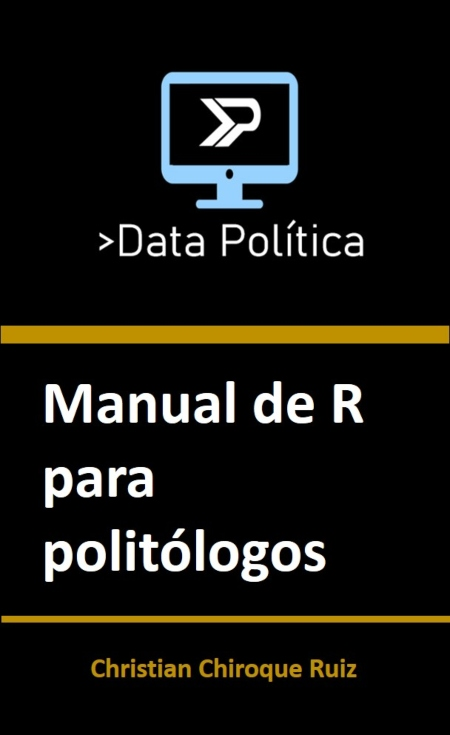
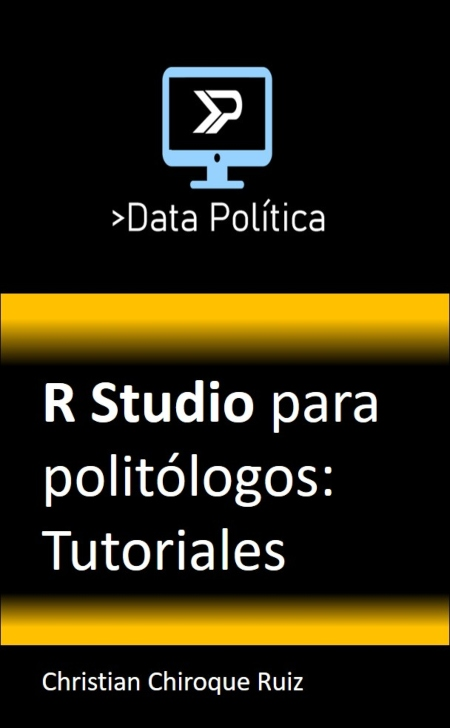
actualización

Changed region(s): [[0.0, 0.3929, 1.0, 0.967], [0.2178, 0.0907, 0.8089, 0.3626]]

diff --git a/content/courses/Manual/_index.md b/content/courses/Manual/_index.md
@@ -5,7 +5,7 @@ summary: Este libro tiene como objetivo ser un soporte para el aprendizaje del s
 weight: 1
 
 # Page metadata.
-title: Manual de R para politólogos
+title: Manual de R Studio para politólogos
 date: "2020-08-01T00:00:00Z"
 lastmod: "2020-08-01T00:00:00Z"
 draft: false  # Is this a draft? true/false

diff --git a/content/courses/Manual/1.3 script_note_mark.md b/content/courses/Manual/1.3 script_note_mark.md
@@ -1,5 +1,5 @@
 ---
-title: Elementos básicos de programación
+title: Script, R Markdown y R Notebook
 linktitle: Script, Markdown y Notebook
 toc: true
 type: docs
